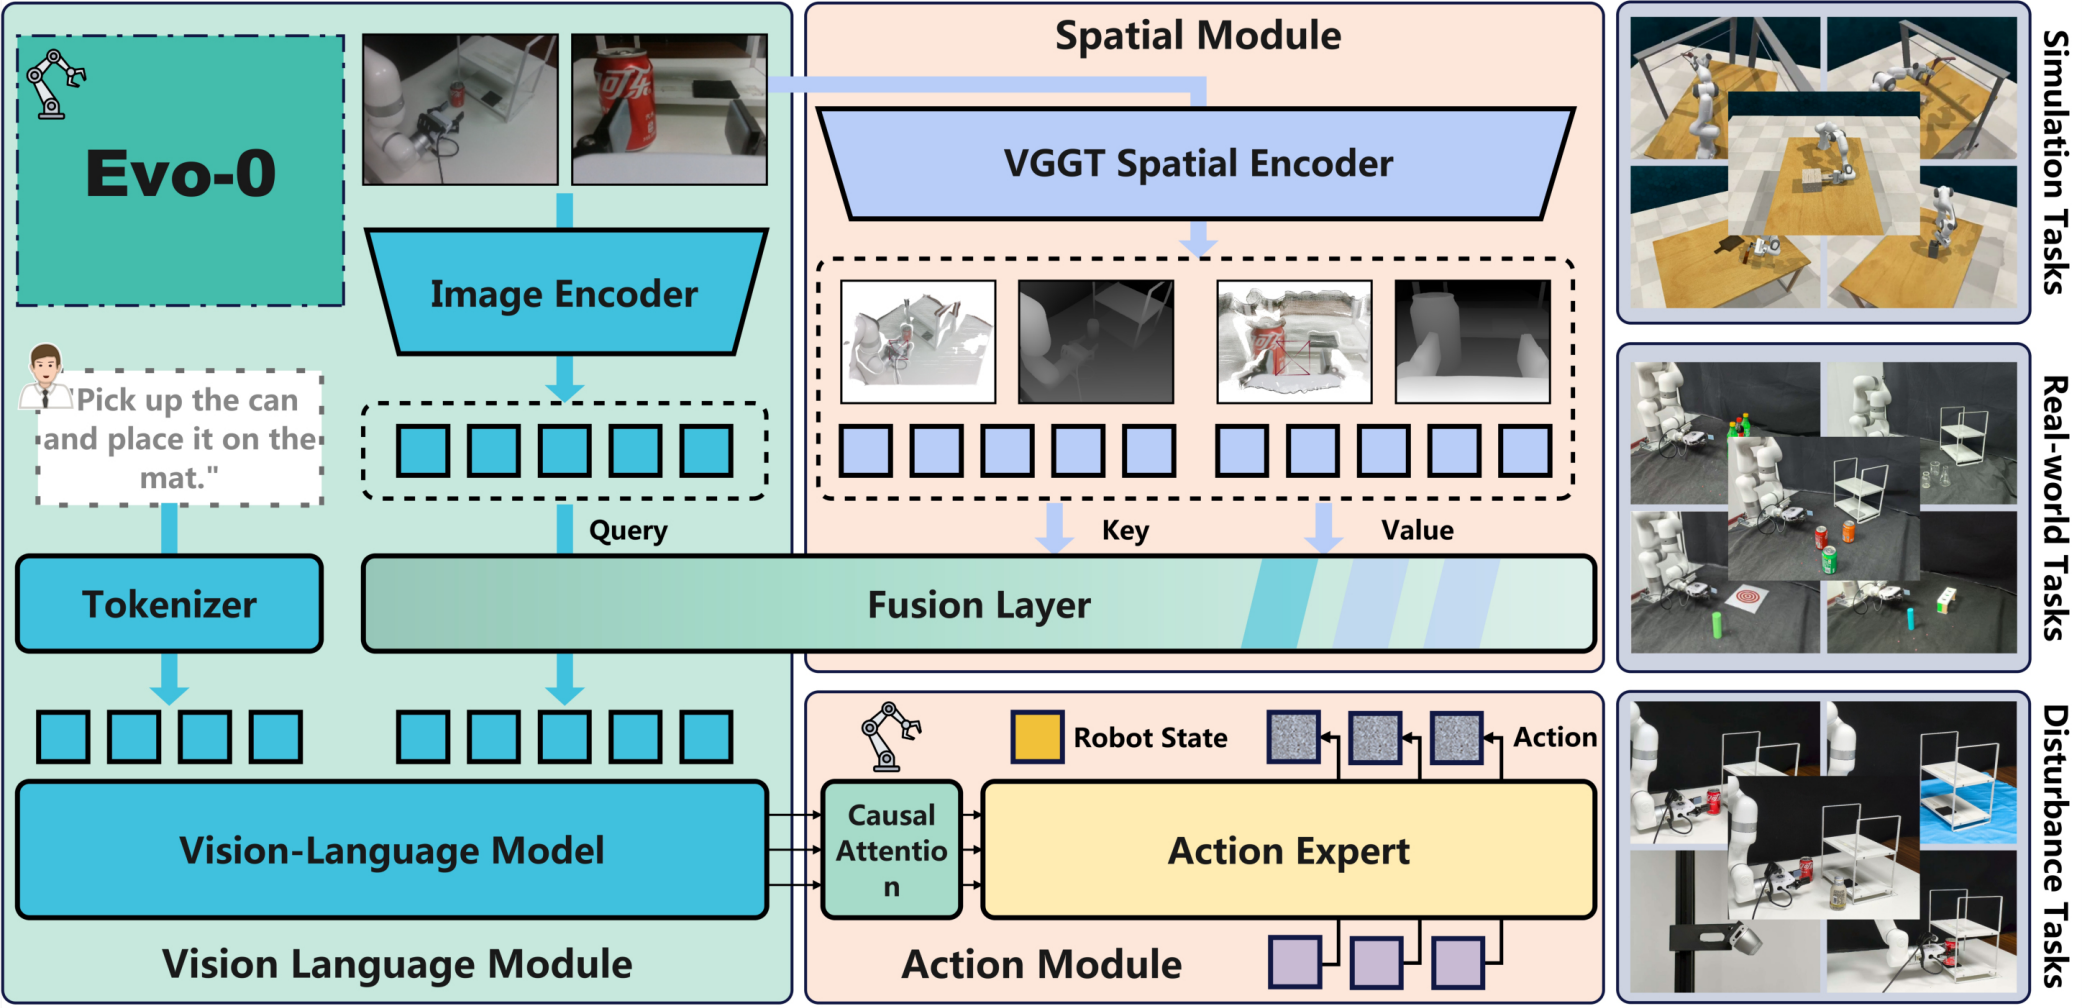
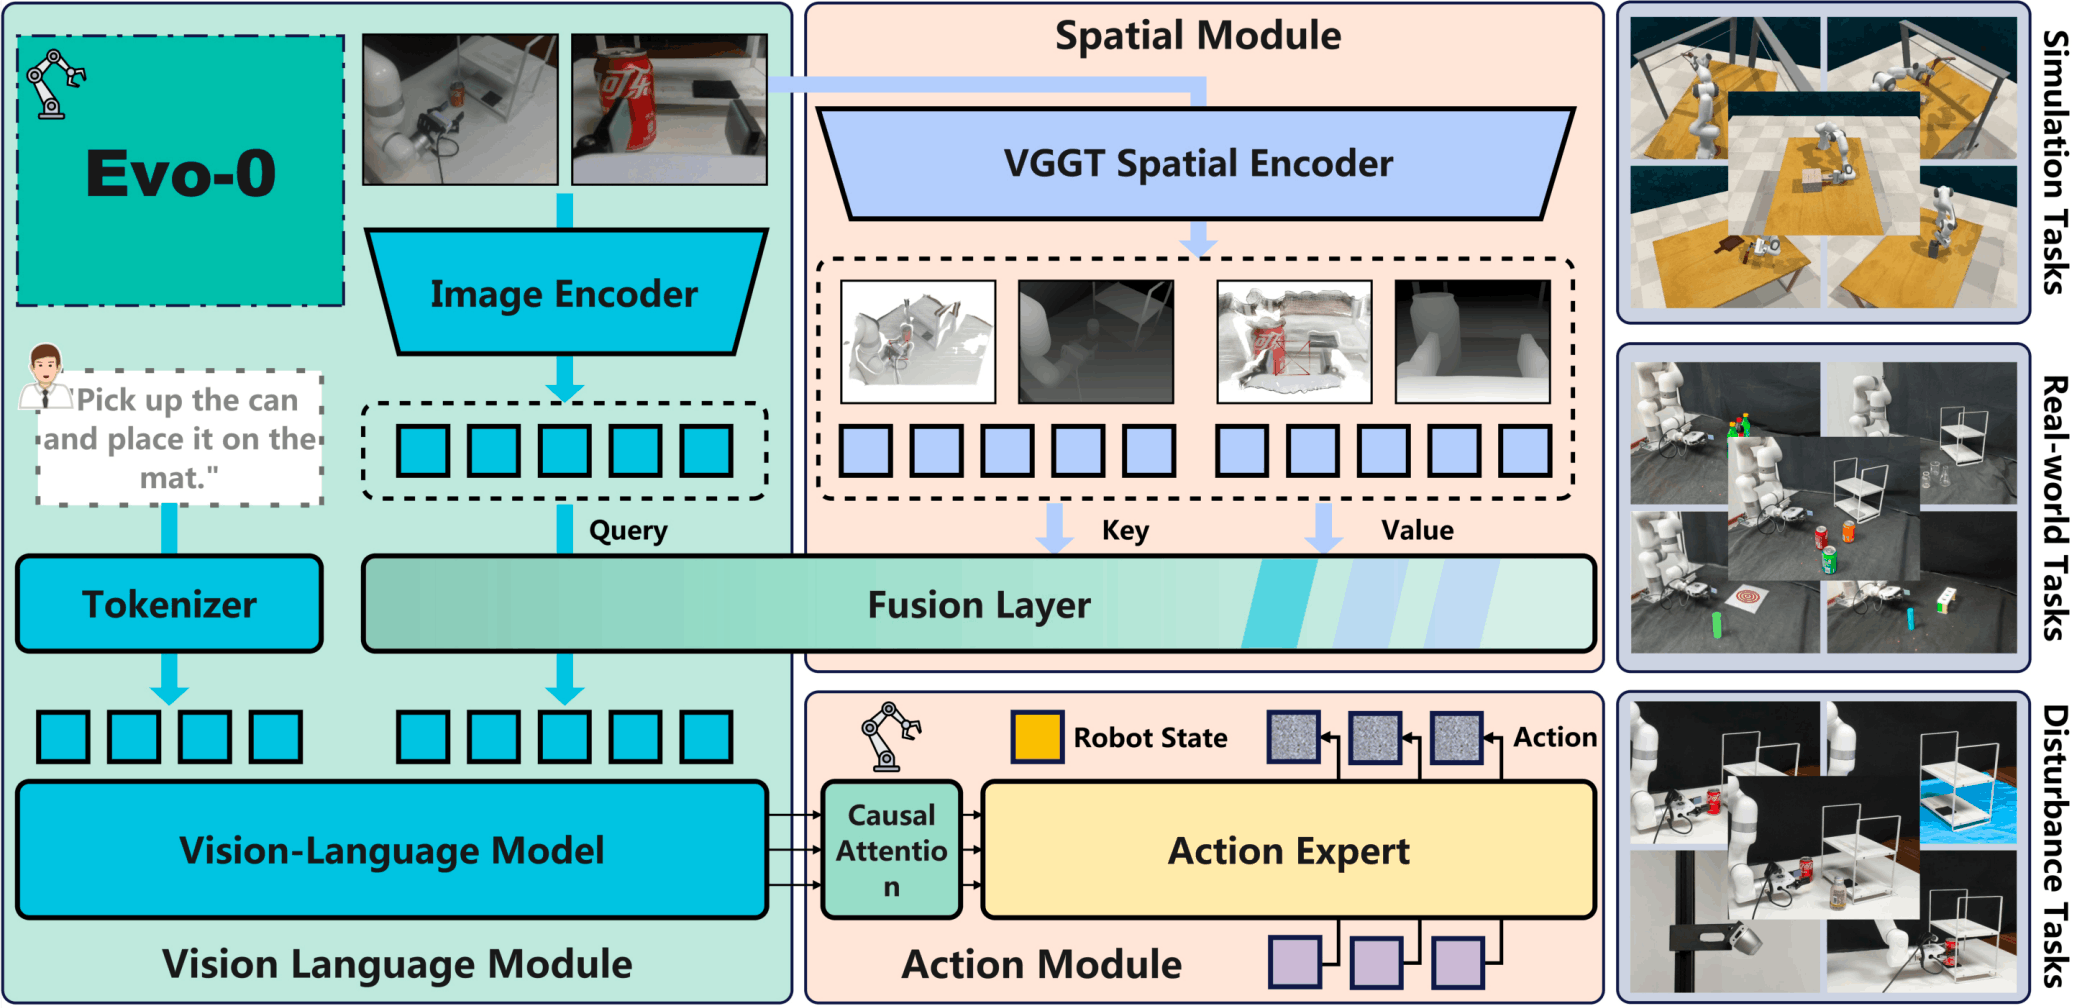
gif to webp; update about; add mmHRI to about; update citations; remove google analytics

diff --git a/assets/js/visitors.js b/assets/js/visitors.js
@@ -487,22 +487,23 @@
       countries: [...countries].map(([code, count]) => ({ code, count })).sort((a, b) => b.count - a.count || a.code.localeCompare(b.code)),
     };
     const total = document.createElement("strong");
+    total.className = "visitor-total-count";
     total.textContent = stats.total.toLocaleString();
     const countryTotal = document.createElement("strong");
     countryTotal.textContent = stats.countries.length.toLocaleString();
-    const locationTotal = document.createElement("strong");
-    locationTotal.textContent = stats.places.toLocaleString();
+    const cityTotal = document.createElement("strong");
+    cityTotal.textContent = stats.places.toLocaleString();
     summary.replaceChildren(
       ...(zh
-        ? ["🌍 来自 ", countryTotal, " 个国家 / 地区、", locationTotal, " 个地点的 ", total, " 次访问"]
+        ? ["🌍 来自 ", countryTotal, " 个国家 / 地区、", cityTotal, " 个城市的 ", total, " 次访问"]
         : [
             "🌍 ",
             total,
             stats.total === 1 ? " visit from " : " visits from ",
             countryTotal,
             stats.countries.length === 1 ? " country and " : " countries and ",
-            locationTotal,
-            stats.places === 1 ? " location" : " locations",
+            cityTotal,
+            stats.places === 1 ? " city" : " cities",
           ])
     );
     renderActivity();

diff --git a/assets/css/visitors.css b/assets/css/visitors.css
@@ -174,6 +174,10 @@
   font-weight: 700;
 }
 
+.visitor-summary strong {
+  color: var(--global-theme-color, #0069d1);
+}
+
 .visitor-activity {
   --visitor-bar-color: #e5dfd5;
   --visitor-bar-active: #b9ad9a;

diff --git a/_pages/about.md b/_pages/about.md
@@ -39,7 +39,8 @@ I am a incoming Professor at the [School of AI and Robotics](http://robotics.hnu
 My research focuses on building <u>reliable, efficient, and human-centered embodied intelligence that can perceive, reason, and act in the physical world</u>.
 I am broadly interested in robot learning, multimodal foundation models, efficient AI, and human-robot interaction.
 
-I was a Research Fellow at Nanyang Technological University, Singapore, working with [Jianfei Yang](https://marsyang.site/). I received my PhD in Robotics and Autonomous Systems from The University of Edinburgh, UK, supervised by [Laura Sevilla](https://laurasevilla.me/) and co-supervised by [Timothy Hospedales](https://homepages.inf.ed.ac.uk/thospeda/).
+Previously, I was a Research Fellow at Nanyang Technological University, working with [Jianfei Yang](https://marsyang.site/). I received my PhD in Robotics and Autonomous Systems from The University of Edinburgh, supervised by [Laura Sevilla](https://laurasevilla.me/) and co-supervised by [Timothy Hospedales](https://homepages.inf.ed.ac.uk/thospeda/).
+My research has been supported by Google DeepMind and Stability AI, where I collaborated with [Deqing Sun](https://deqings.github.io/) and [Varun Jampani](https://varunjampani.github.io/), and by Huawei Noah's Ark Lab in London, where I worked as a student researcher with [Kun Shao](https://shaokun91.github.io/).
 
 <!-- I was fortunate to be partially supported through Google DeepMind and Stability AI, where I collaborated with [Deqing Sun](https://deqings.github.io/) and [Varun Jampani](https://varunjampani.github.io/). -->
 <!-- I also worked as a Research intern at Huawei Noah's Ark Lab in London, where I was mentored by [Kun Shao](https://shaokun91.github.io/). -->
@@ -57,7 +58,9 @@ I was a Research Fellow at Nanyang Technological University, Singapore, working 
 
 <div class="research-note" markdown="1">
 
-📢 I am always looking for highly motivated PhD and master’s students, postdocs, research assistants/interns, and visiting scholars. Please feel free to reach out by email.
+<!-- 📢 I am always looking for highly motivated PhD and master’s students, postdocs, research assistants/interns, and visiting scholars. Please feel free to reach out by email. -->
+
+📢 I am always looking for highly motivated PhD and master’s students, postdocs, research assistants/interns, visiting scholars, and research collaborators. If you are interested in working together, please feel free to reach out by email.
 
 </div>
 
